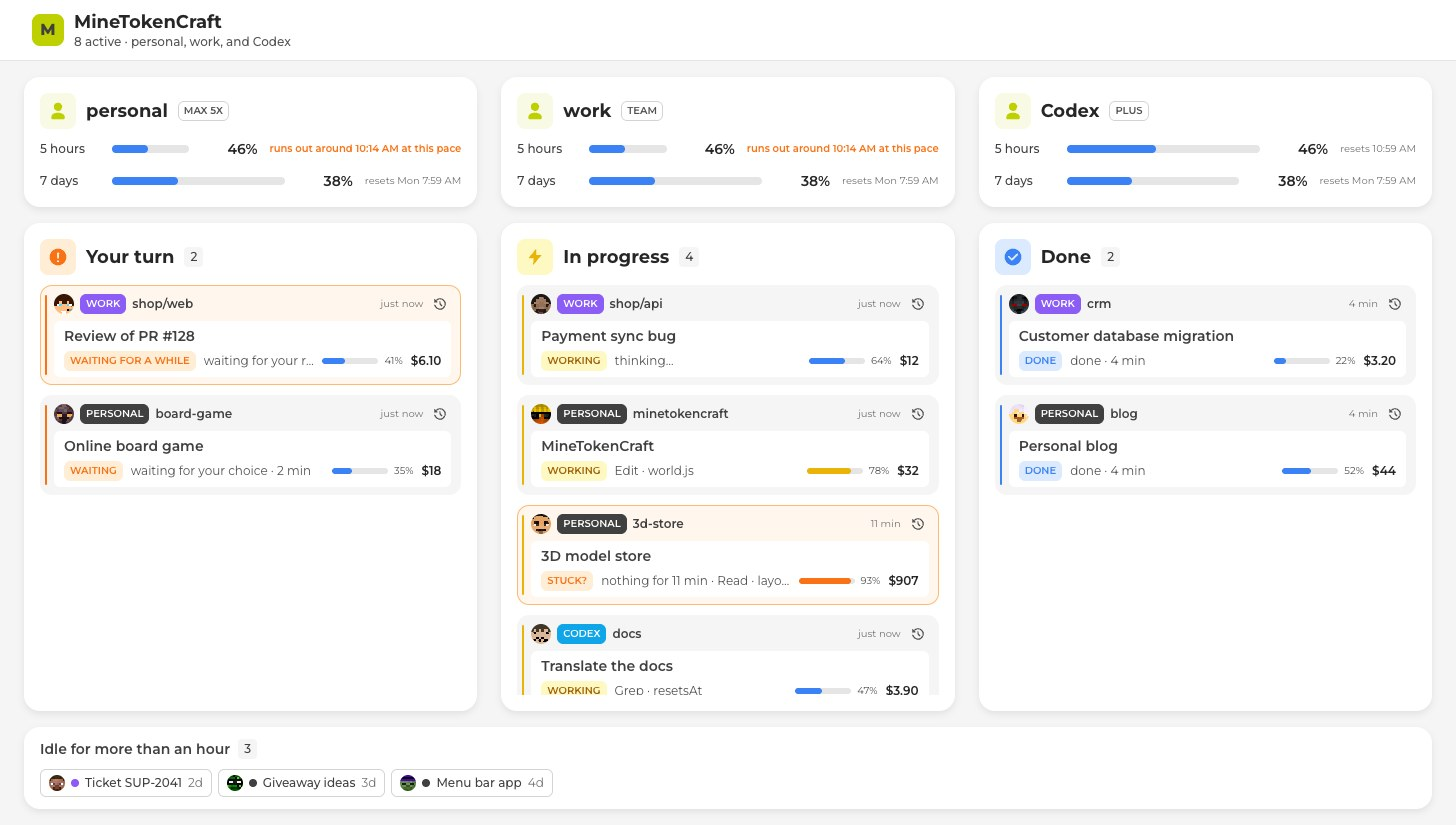
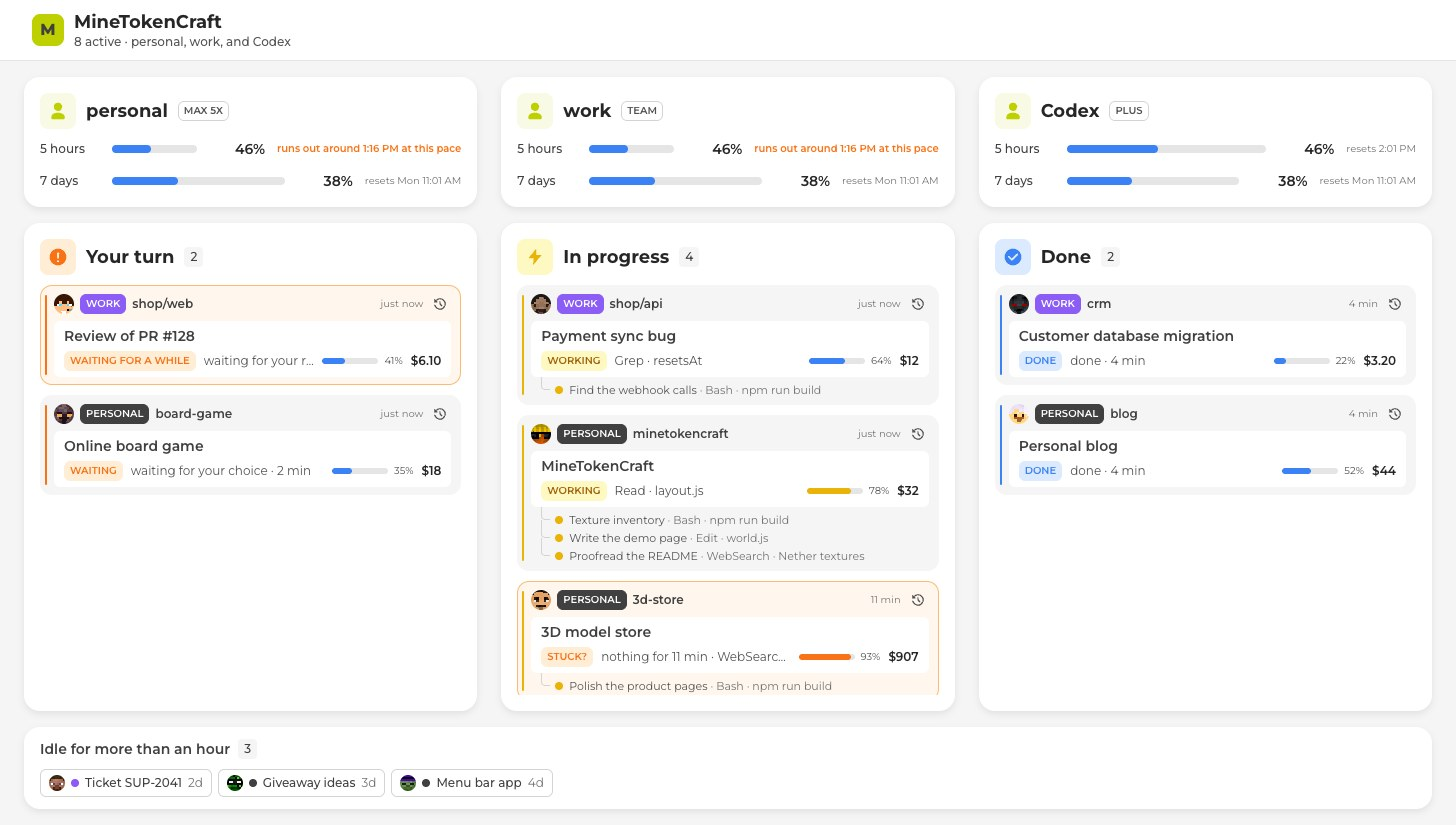
feat: show the sub-agents at work under their session in simple mode
They hang under the card like a tree, those at work first with their tool.
They now stay when the columns shrink; only the finished ones go.

diff --git a/public/js/dashboard.js b/public/js/dashboard.js
@@ -20,8 +20,9 @@ import { LOCALE, t } from './i18n.js';
 // accent, rectangular badges). States keep the blue / yellow / orange palette, readable with color blindness.
 const COLUMNS = ['waiting', 'working', 'done'];
 const AGENTS_LISTED = 4;
-// Compaction steps when a column overflows: the quote, then the agents, then the branch and the tasks, then the
-// margins. Context and cost always stay; past the last step, the column scrolls rather than cutting.
+// Compaction steps when a column overflows: the quote, then the finished agents, then the branch and the tasks, then
+// the margins. Context, cost and the agents at work always stay; past the last step, the column scrolls rather than
+// cutting.
 const DENSITIES = ['', 'compact', 'tiny', 'micro', 'nano'];
 
 // Level of a filling gauge (quota, context): blue, then yellow, then orange.
@@ -68,15 +69,25 @@ function accountCard(account, now) {
     </section>`;
 }
 
+function agentRow(agent) {
+  const doing = agent.status !== 'working' ? '' : agent.tool ? toolText(agent.tool) : t('activity.thinking');
+  return `<li class="ui-agent ui-agent--${agent.status}" data-villager="${escapeHtml(agent.id)}" title="${escapeHtml(t('session.villagerHistory'))}">
+      <i class="ui-dot ui-dot--${agent.status}"></i><span>${escapeHtml(truncate(agent.description || agent.type, 48))}${doing ? `<span class="ui-muted"> · ${escapeHtml(truncate(doing, 28))}</span>` : ''}</span></li>`;
+}
+
+/**
+ * The sub-agents under their session, those at work first: they stay at every density, the finished ones leave with
+ * the first compaction steps.
+ */
 function agentList(player) {
-  if (!player.villagers.length) return '';
-  const rows = player.villagers.slice(0, AGENTS_LISTED).map((agent) => {
-    const doing = agent.status === 'working' && agent.tool ? `<span class="ui-muted"> · ${escapeHtml(truncate(toolText(agent.tool), 28))}</span>` : '';
-    return `<li data-villager="${escapeHtml(agent.id)}" title="${escapeHtml(t('session.villagerHistory'))}"><i class="ui-dot ui-dot--${agent.status}"></i><span>${escapeHtml(truncate(agent.description, 48))}${doing}</span></li>`;
-  });
-  const more = player.villagers.length - AGENTS_LISTED;
-  if (more > 0) rows.push(`<li class="ui-muted">${t('dashboard.moreAgents', { count: more })}</li>`);
-  return `<ul class="ui-item__agents">${rows.join('')}</ul>`;
+  const working = player.villagers.filter((agent) => agent.status === 'working');
+  const done = player.villagers.filter((agent) => agent.status !== 'working');
+  const doneShown = done.slice(0, Math.max(0, AGENTS_LISTED - working.length));
+  const rows = [...working.slice(0, AGENTS_LISTED), ...doneShown].map(agentRow);
+  const more = (status, count) => `<li class="ui-agent ui-agent--${status} ui-muted">${t(`dashboard.moreAgents.${status}`, { count })}</li>`;
+  if (working.length > AGENTS_LISTED) rows.push(more('working', working.length - AGENTS_LISTED));
+  if (done.length > doneShown.length) rows.push(more('done', done.length - doneShown.length));
+  return rows.length ? `<ul class="ui-item__agents">${rows.join('')}</ul>` : '';
 }
 
 function sessionItem(player, now) {

diff --git a/public/dashboard.css b/public/dashboard.css
@@ -474,7 +474,8 @@ body.simple .switch input:checked + .switch__track::after {
   display: flex;
   flex: none;
   flex-direction: column;
-  gap: 8px;
+  --ui-item-gap: 8px;
+  gap: var(--ui-item-gap);
   padding: 10px 10px 10px 14px;
   overflow: hidden;
   background: var(--ui-inset);
@@ -659,25 +660,49 @@ body.simple .switch input:checked + .switch__track::after {
   text-overflow: ellipsis;
 }
 
+/* The sub-agents hang from their session like a tree, the trunk under the avatar. */
 .ui-item__agents {
   display: grid;
   gap: 4px;
   margin: 0;
-  padding: 0 0 0 2px;
+  padding: 0 0 0 10px;
   list-style: none;
-  font-size: 10px;
-  line-height: 12px;
+  font-size: 11px;
+  line-height: 14px;
   color: var(--ui-secondary);
 }
 
-.ui-item__agents li {
+.ui-agent {
+  position: relative;
   display: flex;
   align-items: center;
   gap: 6px;
   min-width: 0;
+  padding-left: 14px;
 }
 
-.ui-item__agents li span {
+/* Branch from the row above (or from the session for the first one) down to the middle of this row. */
+.ui-agent::before {
+  content: '';
+  position: absolute;
+  top: calc(-50% - 4px);
+  bottom: 50%;
+  left: 0;
+  width: 8px;
+  border-bottom: 1px solid var(--ui-border);
+  border-left: 1px solid var(--ui-border);
+  border-bottom-left-radius: 4px;
+}
+
+.ui-agent:first-child::before {
+  top: calc(-1 * var(--ui-item-gap));
+}
+
+.ui-agent--done {
+  color: var(--ui-muted);
+}
+
+.ui-agent span {
   overflow: hidden;
   white-space: nowrap;
   text-overflow: ellipsis;
@@ -772,13 +797,13 @@ body.simple .switch input:checked + .switch__track::after {
 /* --- compaction when a column overflows ------------------------------------------------------------------ */
 
 #dashboard:is([data-density='compact'], [data-density='tiny'], [data-density='micro'], [data-density='nano']) .ui-item__quote,
-#dashboard:is([data-density='tiny'], [data-density='micro'], [data-density='nano']) .ui-item__agents,
+#dashboard:is([data-density='tiny'], [data-density='micro'], [data-density='nano']) :is(.ui-agent--done, .ui-item__agents:not(:has(.ui-agent--working))),
 #dashboard:is([data-density='micro'], [data-density='nano']) :is(.ui-item__git, .ui-item__tasks) {
   display: none;
 }
 
 #dashboard:is([data-density='micro'], [data-density='nano']) .ui-item {
-  gap: 6px;
+  --ui-item-gap: 6px;
   padding-top: 8px;
   padding-bottom: 8px;
 }
@@ -1111,10 +1136,10 @@ body.simple.focus #focus-toggle {
   border-color: transparent;
 }
 
-.ui-item__agents li[data-villager] {
+.ui-agent[data-villager] {
   cursor: pointer;
 }
 
-.ui-item__agents li[data-villager]:hover span {
+.ui-agent[data-villager]:hover span {
   text-decoration: underline;
 }

diff --git a/public/js/locales/fr.js b/public/js/locales/fr.js
@@ -112,7 +112,8 @@ export default {
   'dashboard.stuck': 'Bloquée ?',
   'dashboard.background': 'Tâche de fond',
   'dashboard.context': 'Contexte utilisé',
-  'dashboard.moreAgents': { one: '+ {count} agent', other: '+ {count} agents' },
+  'dashboard.moreAgents.working': { one: '+ {count} autre au travail', other: '+ {count} autres au travail' },
+  'dashboard.moreAgents.done': { one: '+ {count} autre terminé', other: '+ {count} autres terminés' },
   'dashboard.active': { one: '{count} active', other: '{count} actives' },
   'dashboard.idle': 'Inactives depuis plus d\'une heure',
 

diff --git a/public/js/locales/en.js b/public/js/locales/en.js
@@ -112,7 +112,8 @@ export default {
   'dashboard.stuck': 'Stuck?',
   'dashboard.background': 'Background task',
   'dashboard.context': 'Context used',
-  'dashboard.moreAgents': { one: '+ {count} agent', other: '+ {count} agents' },
+  'dashboard.moreAgents.working': { one: '+ {count} more at work', other: '+ {count} more at work' },
+  'dashboard.moreAgents.done': { one: '+ {count} more done', other: '+ {count} more done' },
   'dashboard.active': { one: '{count} active', other: '{count} active' },
   'dashboard.idle': 'Idle for more than an hour',
 

diff --git a/README.fr.md b/README.fr.md
@@ -212,7 +212,7 @@ Clique sur une pièce ou une carte pour ramener son terminal au premier plan. Do
 
 ## Mode simple
 
-L'interrupteur **Mode simple** remplace le village par un tableau de bord clair : les quotas de chaque compte, puis *À toi de jouer*, *En cours*, *Terminé*, et les sessions inactives. Il se resserre pour tenir dans l'écran sans défiler. Le choix est retenu.
+L'interrupteur **Mode simple** remplace le village par un tableau de bord clair : les quotas de chaque compte, puis *À toi de jouer*, *En cours*, *Terminé*, et les sessions inactives. Les sous-agents d'une session sont rangés sous sa carte, ceux qui travaillent en premier, avec l'outil qu'ils utilisent. Il se resserre pour tenir dans l'écran sans défiler. Le choix est retenu.
 
 ## Configuration
 

diff --git a/README.md b/README.md
@@ -212,7 +212,7 @@ Click a room or a card to bring its terminal to the front. Double-click a room t
 
 ## Simple mode
 
-The **Simple mode** switch replaces the village with a light dashboard: quotas per account, then *Your turn*, *In progress*, *Done*, and the idle sessions. It shrinks itself to fit the screen without scrolling. The choice is remembered.
+The **Simple mode** switch replaces the village with a light dashboard: quotas per account, then *Your turn*, *In progress*, *Done*, and the idle sessions. The sub-agents of a session hang under its card, those at work first, with the tool they are using. It shrinks itself to fit the screen without scrolling. The choice is remembered.
 
 ## Configuration
 

diff --git a/CHANGELOG.md b/CHANGELOG.md
@@ -4,6 +4,10 @@ All notable changes to MineTokenCraft are listed here. The format follows [Keep 
 
 ## [Unreleased]
 
+### Changed
+
+- Simple mode: the sub-agents hang under their session like a tree, those at work first with their tool (or "thinking…"). The ones at work now stay when the columns shrink to fit the screen; only the finished ones go.
+
 ## [1.2.2] - 2026-10-23
 
 ### Removed
